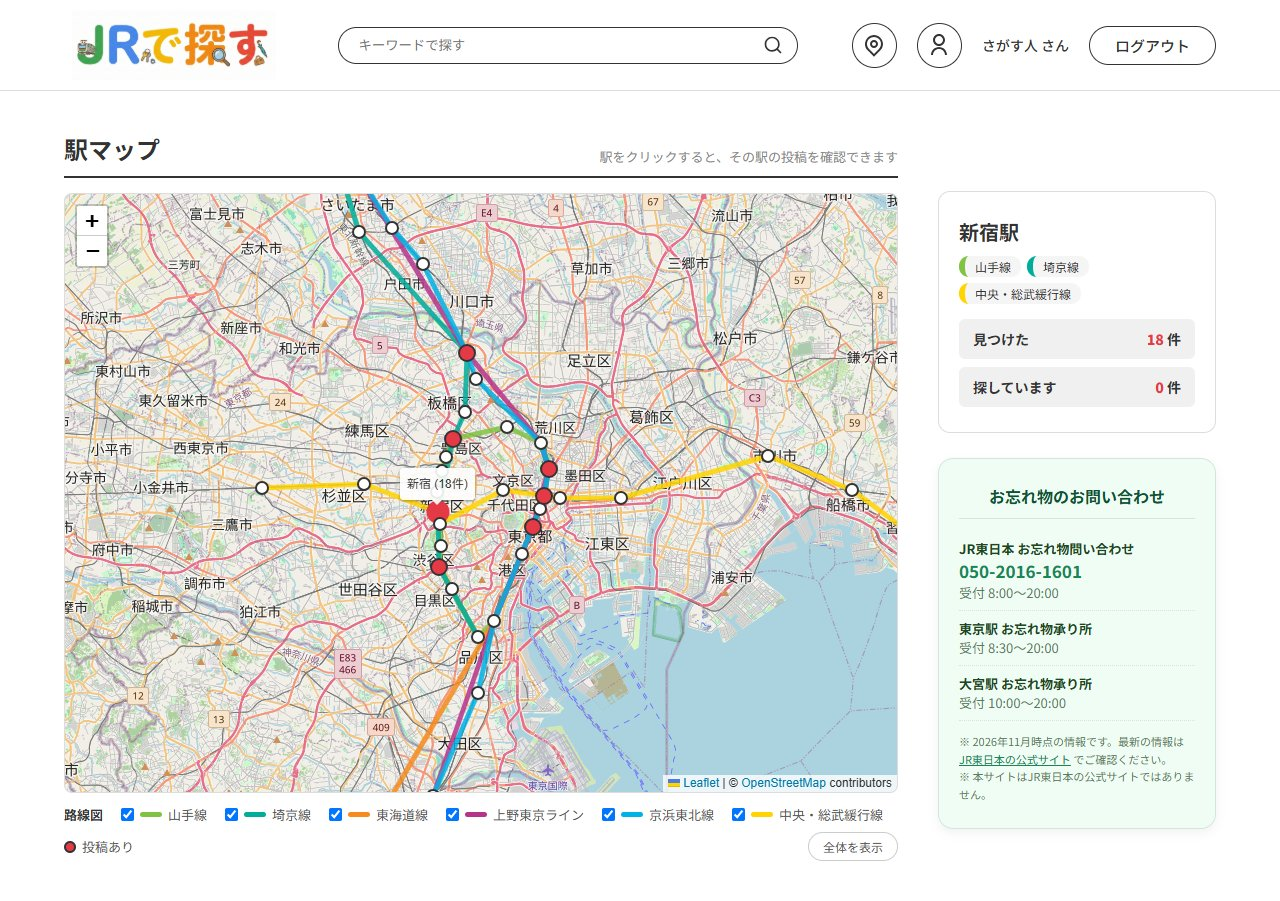
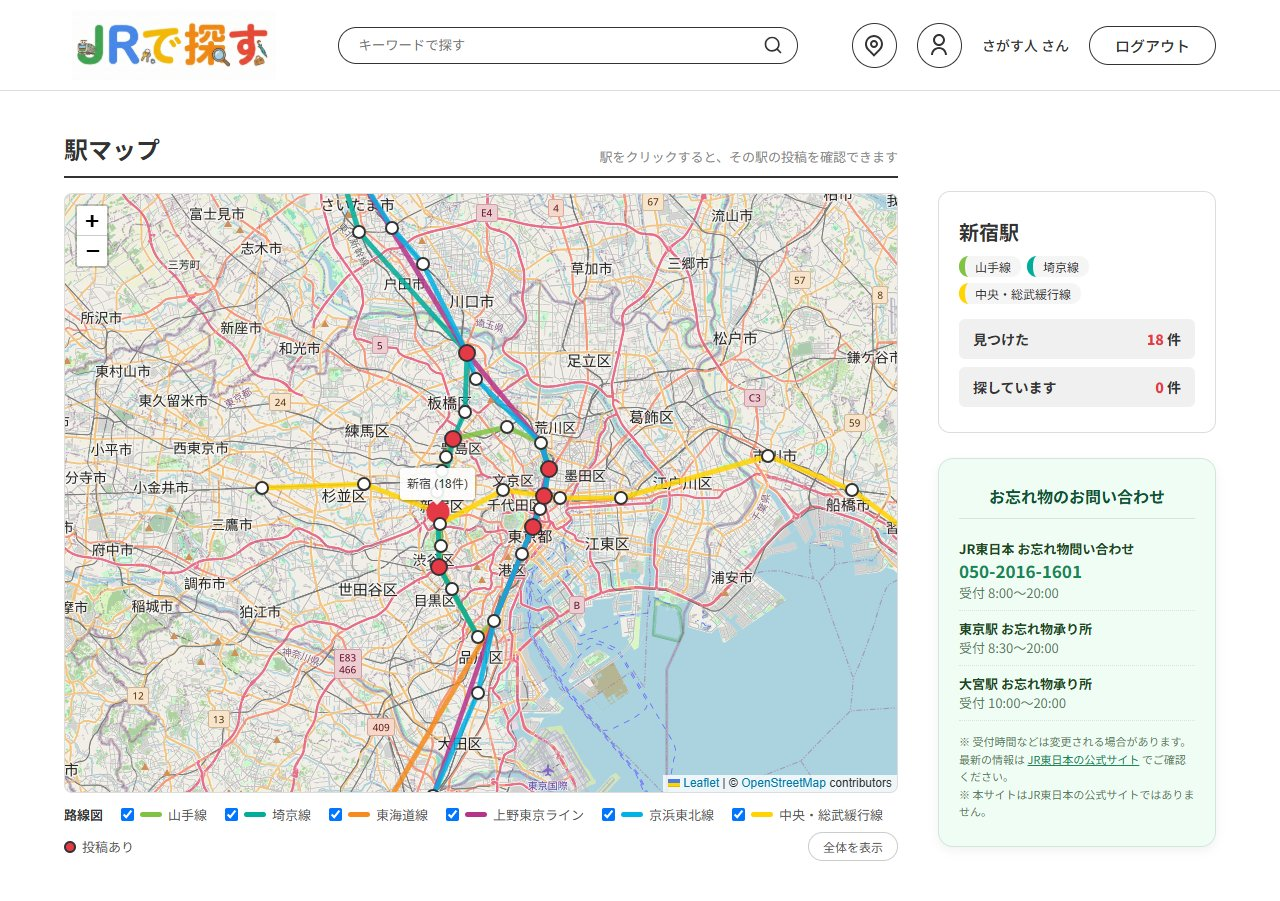
お忘れ物 문의처 안내 문구에서 날짜 표기를 빼고 스크린샷 다시 촬영
- 「2026年11月時点の情報です」 → 「受付時間などは変更される場合があります」 (공식 사이트 링크 안내는 그대로)
- 문의처 카드가 보이는 스크린샷 2개 (見つけた 상세, 駅マップ) 다시 촬영

Changed region(s): [[0.75, 0.808, 0.9375, 0.9012]]

diff --git a/src/main/resources/templates/fragments/lostCenter.html b/src/main/resources/templates/fragments/lostCenter.html
@@ -34,7 +34,7 @@
         </li>
     </ul>
     <p class="lost-center-note">
-        ※ 2026年11月時点の情報です。最新の情報は
+        ※ 受付時間などは変更される場合があります。最新の情報は
         <a href="https://www.jreast.co.jp/info/lost.html" target="_blank" rel="noopener noreferrer">JR東日本の公式サイト</a>
         でご確認ください。<br>
         ※ 本サイトはJR東日本の公式サイトではありません。
